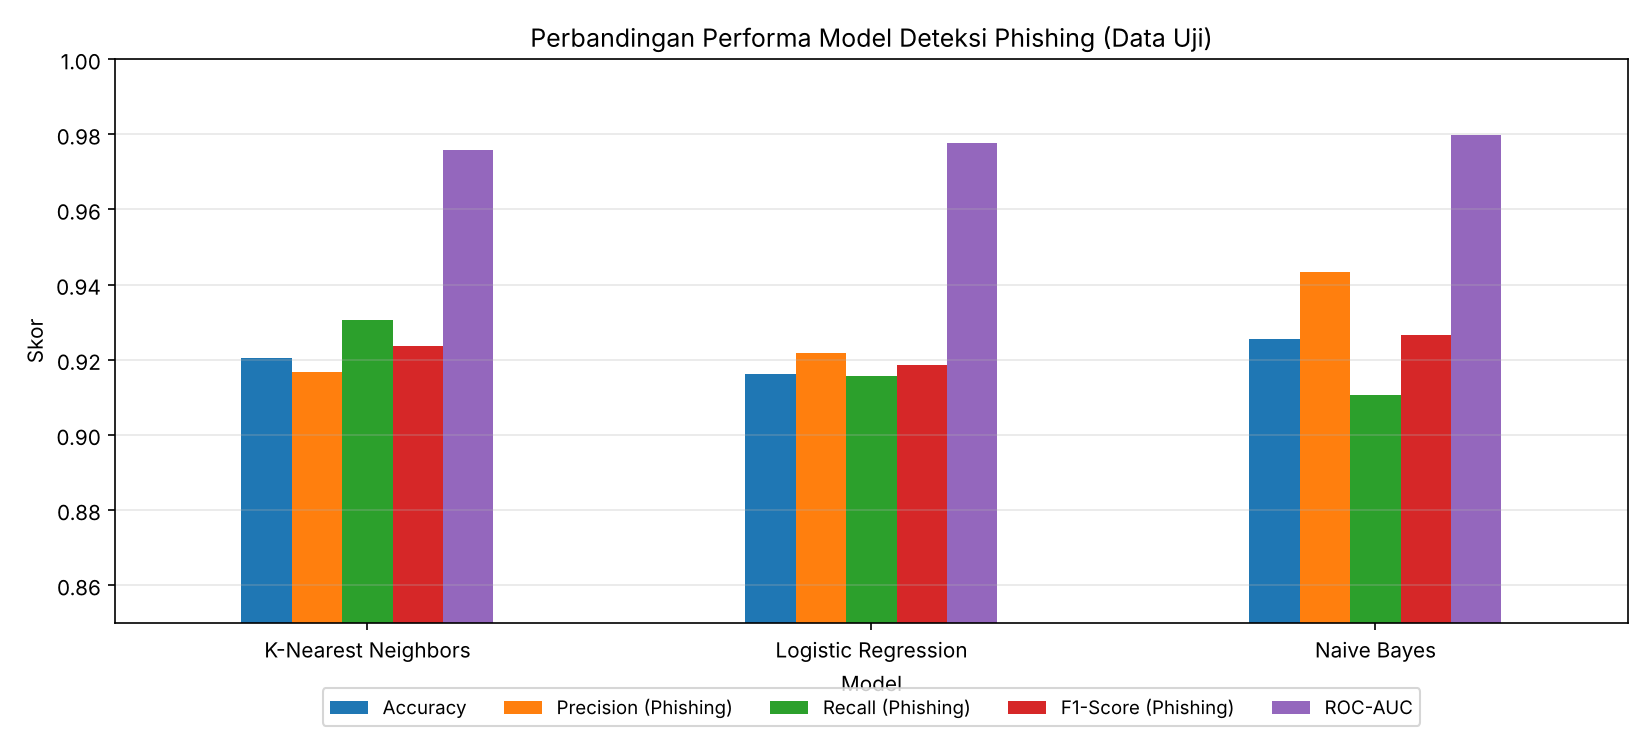
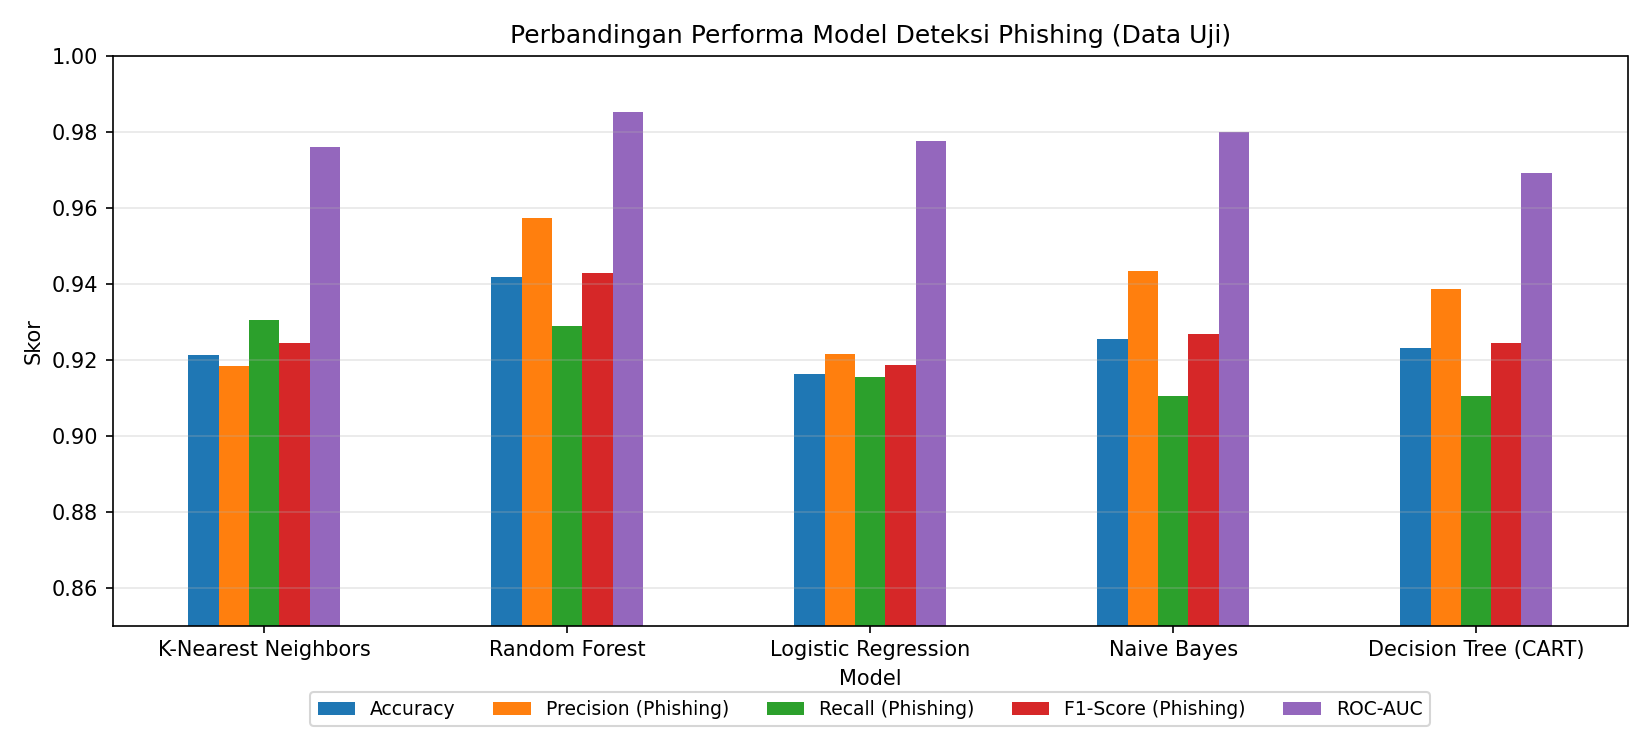
feat(evaluation): perbarui leaderboard dan grafik komparasi untuk kelima model

diff --git a/evaluation/evaluate_all.py b/evaluation/evaluate_all.py
@@ -99,7 +99,14 @@ def main():
         md[c] = (md[c] * 100).map("{:.2f}%".format)
     md["ROC-AUC"] = md["ROC-AUC"].map("{:.4f}".format)
     md["Waktu Prediksi (s)"] = md["Waktu Prediksi (s)"].map("{:.4f}".format)
-    (OUT_DIR / "leaderboard.md").write_text(md.to_markdown(index=False), encoding="utf-8")
+    try:
+        md_text = md.to_markdown(index=False)
+    except ImportError:
+        headers = " | ".join(md.columns)
+        sep = " | ".join("---" for _ in md.columns)
+        body = "\n".join(" | ".join(str(v) for v in row) for row in md.itertuples(index=False))
+        md_text = f"| {headers} |\n| {sep} |\n" + "\n".join(f"| {line} |" for line in body.splitlines())
+    (OUT_DIR / "leaderboard.md").write_text(md_text, encoding="utf-8")
 
     print("\nLEADERBOARD (diurutkan Recall Phishing -> F1 -> ROC-AUC)")
     print(lb.round(4).to_string(index=False))

diff --git a/evaluation/komparasi/leaderboard.md b/evaluation/komparasi/leaderboard.md
@@ -1,5 +1,7 @@
-|   Peringkat | Model               | PIC   | Accuracy   | Precision (Phishing)   | Recall (Phishing)   | F1-Score (Phishing)   |   ROC-AUC |   False Negative |   False Positive |   Waktu Prediksi (s) |
-|------------:|:--------------------|:------|:-----------|:-----------------------|:--------------------|:----------------------|----------:|-----------------:|-----------------:|---------------------:|
-|           1 | K-Nearest Neighbors | Irfan | 92.05%     | 91.68%                 | 93.05%              | 92.36%                |    0.9758 |               42 |               51 |               0.0256 |
-|           2 | Logistic Regression | Rapip | 91.62%     | 92.17%                 | 91.56%              | 91.86%                |    0.9776 |               51 |               47 |               0.0008 |
-|           3 | Naive Bayes         | Gisca | 92.56%     | 94.34%                 | 91.06%              | 92.67%                |    0.9799 |               54 |               33 |               0.0095 |
+| Peringkat | Model | PIC | Accuracy | Precision (Phishing) | Recall (Phishing) | F1-Score (Phishing) | ROC-AUC | False Negative | False Positive | Waktu Prediksi (s) |
+| --- | --- | --- | --- | --- | --- | --- | --- | --- | --- | --- |
+| 1 | K-Nearest Neighbors | Irfan | 92.14% | 91.83% | 93.05% | 92.43% | 0.9760 | 42 | 50 | 1.5173 |
+| 2 | Random Forest | Wawa | 94.19% | 95.73% | 92.88% | 94.29% | 0.9853 | 43 | 25 | 0.1458 |
+| 3 | Logistic Regression | Rapip | 91.62% | 92.17% | 91.56% | 91.86% | 0.9776 | 51 | 47 | 0.0004 |
+| 4 | Naive Bayes | Gisca | 92.56% | 94.34% | 91.06% | 92.67% | 0.9799 | 54 | 33 | 0.0116 |
+| 5 | Decision Tree (CART) | Laura | 92.31% | 93.86% | 91.06% | 92.44% | 0.9693 | 54 | 36 | 0.0027 |
